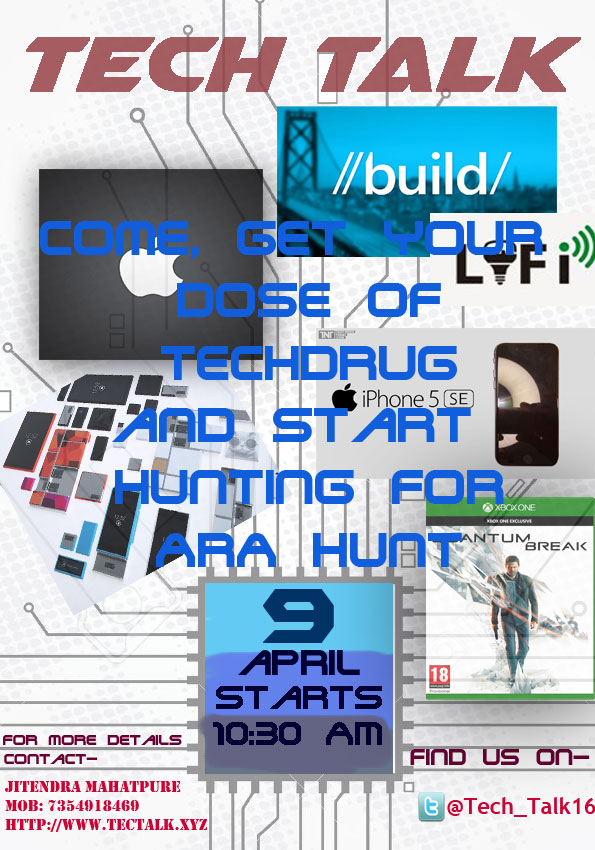
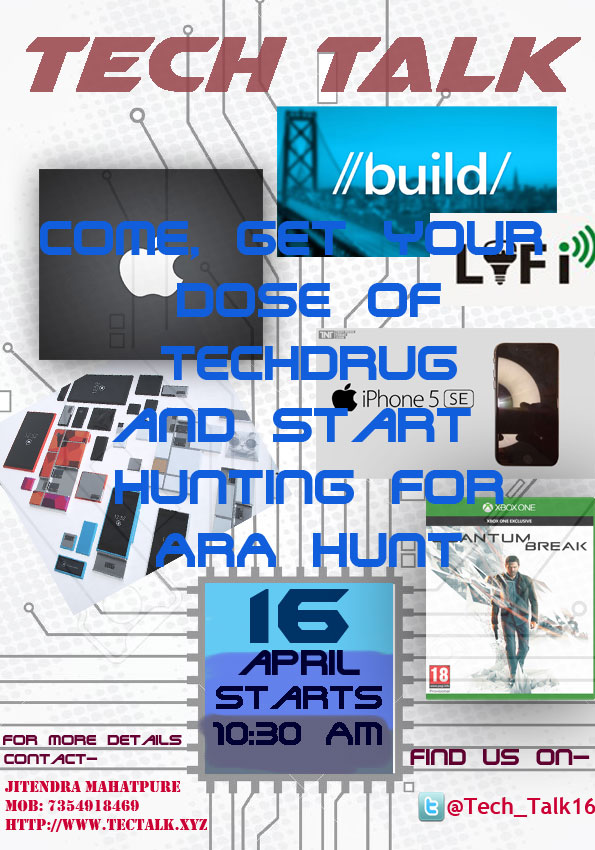
updated the details for 16

Changed region(s): [[0.3933, 0.6729, 0.605, 0.7647]]

diff --git a/events.html b/events.html
@@ -74,7 +74,7 @@
                     <h4 style="font-family: 'Montserrat', sans-serif;"> Tech Talk at IIIT, Jabalpur</h4>
                     <h6>We take a great pride to announce that we will be conducting a tech talk session in 
                         Indian Institute of Information Technology, Jabalpur. We have decided to talk about several new technologies. 
-                        Event will be conducted on April 9,2016 from 10:30AM. You can register for the event by clicking on register now
+                        Event will be conducted on April 16,2016 from 10:30AM. You can register for the event by clicking on register now
                         </h6>
                         <a href="http://goo.gl/forms/0Obomq1syV">Register Now</a>
                 </div>
